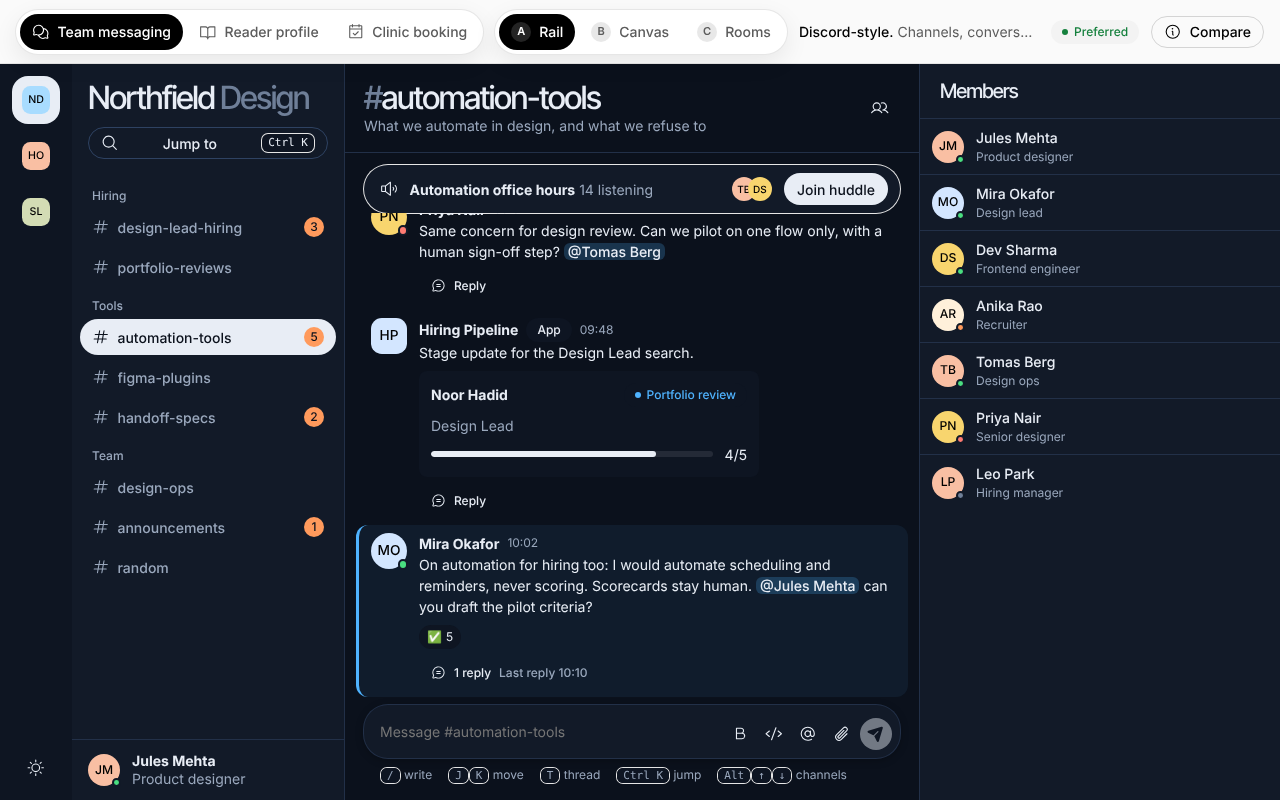
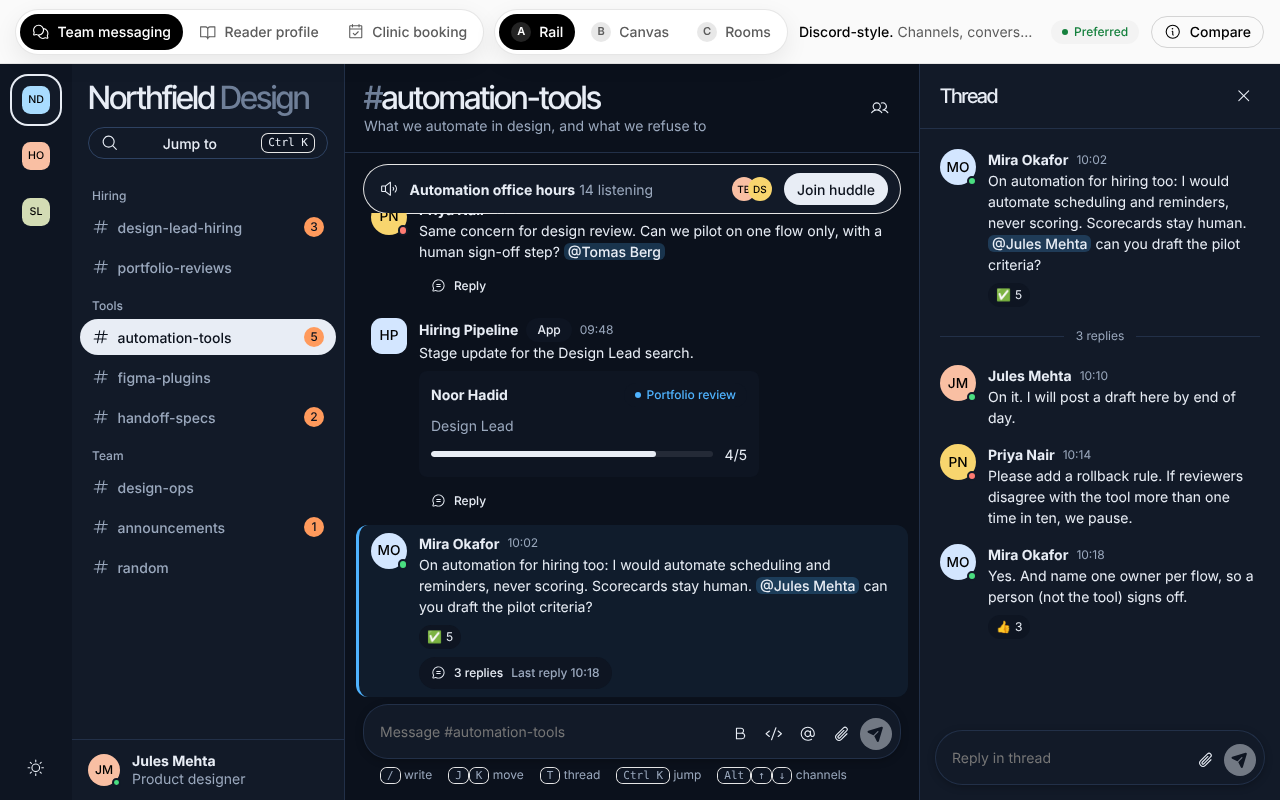
Rail: show a thread by default, frame the selected workspace, label placeholder workspaces
At desktop width the first view now shows channels, the conversation, an open
thread (three replies on the highlighted message) and the composer together; before,
the right pane opened on Members and the thread only appeared after a click.
The selected workspace is a ringed tile instead of a solid ink block (heavy in the
light theme). The two other workspaces now say they are placeholders rather than
silently doing nothing. Adds 7 e2e checks.

Claude-Session: https://claude.ai/code/session_01P1Vf3VVqWDgdfqn6XWC4yx

diff --git a/src/products/messaging/RailConcept.tsx b/src/products/messaging/RailConcept.tsx
@@ -60,11 +60,14 @@ export default function RailConcept() {
   const [joined, setJoined] = useState(false);
   const [cursor, setCursor] = useState(0);
   const composer = useRef<HTMLTextAreaElement>(null);
+  const opened = useRef(false);
   const feed = useRef<HTMLDivElement>(null);
 
   const { channels, channel, channelId, messages, selectChannel, markRead, openRoot, openThread, root, threadFor, send, reply } = ws;
 
   useEffect(() => { setCursor(Math.max(messages.length - 1, 0)); }, [channelId, messages.length]);
+  // Open a real thread on first load at desktop width, so channels, conversation, thread and composer are all visible at once.
+  useEffect(() => { if (!opened.current && wide) { opened.current = true; openThread('a5'); } }, [wide, openThread]);
   useEffect(() => { feed.current?.querySelector(`[data-idx="${cursor}"]`)?.scrollIntoView({ block: 'nearest' }); }, [cursor, channelId]);
 
   const cmds: Cmd[] = useMemo(() => [
@@ -102,6 +105,8 @@ export default function RailConcept() {
   }, [channels, channelId, messages, cursor, selectChannel, openThread, markRead]);
 
   const groups = ['Hiring', 'Tools', 'Team'] as const;
+  const wsNames: Record<string, string> = { northfield: 'Northfield Design', hiring: 'Hiring Ops', studio: 'Studio Labs' };
+  const demo = workspace !== 'northfield';
   const channelNav = groups.map((g) => {
     const items: NavItem[] = channels.filter((c) => c.group === g).map((c) => ({
       id: c.id, label: c.name, icon: <Hash size="1.25em" aria-hidden="true" />, badge: c.unread || undefined,
@@ -142,7 +147,7 @@ export default function RailConcept() {
   const rightBody = openRoot ? threadView : members;
 
   return (
-    <div className="rail" data-ds-theme={theme} data-wide={wide} data-mid={mid}>
+    <div className="rail" data-ds-theme={theme} data-wide={wide && !demo} data-mid={mid} data-demo={demo || undefined}>
       {mid && (
         <div className="rail__ws">
           <Nav
@@ -156,9 +161,17 @@ export default function RailConcept() {
           <Button variant="ghost" iconOnly aria-label={theme === 'dark' ? 'Switch to light theme' : 'Switch to dark theme'} icon={theme === 'dark' ? <Sun size="1.25em" /> : <Moon size="1.25em" />} onClick={() => setTheme((t) => (t === 'dark' ? 'light' : 'dark'))} />
         </div>
       )}
-      {mid && <aside className="rail__channels" aria-label="Channels">{channelPane}</aside>}
+      {mid && !demo && <aside className="rail__channels" aria-label="Channels">{channelPane}</aside>}
+      {demo && (
+        <main className="rail__empty">
+          <Avatar name={wsNames[workspace]} size={64} shape="square" tint={workspace === 'hiring' ? 'peach' : 'sage'} />
+          <h1>{wsNames[workspace]}</h1>
+          <p className="ds-muted">This workspace is a placeholder in the demo and has no channels. All the content lives in Northfield Design.</p>
+          <Button variant="primary" onClick={() => setWorkspace('northfield')}>Back to Northfield Design</Button>
+        </main>
+      )}
 
-      <main className="rail__main">
+      {!demo && <main className="rail__main">
         <header className="rail__top">
           {!mid && <Button variant="ghost" iconOnly aria-label="Open channels" icon={<ListIcon size="1.25em" />} onClick={() => setMenu(true)} />}
           <div className="rail__title">
@@ -196,9 +209,9 @@ export default function RailConcept() {
             <span><kbd>/</kbd> write</span><span><kbd>J</kbd><kbd>K</kbd> move</span><span><kbd>T</kbd> thread</span><span><kbd>Ctrl K</kbd> jump</span><span><kbd>Alt</kbd><kbd>↑</kbd><kbd>↓</kbd> channels</span>
           </p>
         </div>
-      </main>
+      </main>}
 
-      {wide && (
+      {wide && !demo && (
         <aside className="rail__right" aria-label={rightTitle}>
           <div className="rail__right-head">
             <h2>{rightTitle}</h2>
@@ -207,7 +220,7 @@ export default function RailConcept() {
           <div className="rail__right-body">{rightBody}</div>
         </aside>
       )}
-      {!wide && (
+      {!wide && !demo && (
         <Sheet open={!!openRoot || membersOpen} onClose={() => { openThread(null); setMembersOpen(false); }} title={rightTitle} side="right">
           {rightBody}
         </Sheet>

diff --git a/src/products/messaging/rail.css b/src/products/messaging/rail.css
@@ -7,6 +7,13 @@
 .rail__ws { background: var(--ds-surface-sunken); display: flex; flex-direction: column; align-items: center; justify-content: space-between; padding: var(--ds-space-3) var(--ds-space-2); box-shadow: 1px 0 0 var(--ds-border); }
 .rail__ws .ds-nav__item { min-height: 48px; width: 48px; padding: 0; justify-content: center; border-radius: var(--ds-radius-lg); }
 .rail__ws .ds-nav ul { gap: var(--ds-space-2); }
+/* Selected workspace: a framed tile, not a solid ink block. */
+.rail__ws .ds-nav__item[aria-current='page'] { background: var(--ds-surface); color: var(--ds-text); box-shadow: 0 0 0 2px var(--ds-text); }
+.rail__ws .ds-nav__item[aria-current='page']:hover { background: var(--ds-surface); }
+.rail[data-demo] { grid-template-columns: 72px minmax(0, 1fr) !important; }
+@media (max-width: 899px) { .rail[data-demo] { grid-template-columns: minmax(0, 1fr) !important; } }
+.rail__empty { display: grid; place-content: center; justify-items: center; gap: var(--ds-space-4); text-align: center; padding: var(--ds-space-6); }
+.rail__empty p { max-width: 44ch; }
 
 .rail__channels { background: var(--ds-surface); box-shadow: 1px 0 0 var(--ds-border); min-height: 0; }
 .rail__channels-inner { display: flex; flex-direction: column; height: 100%; min-height: 0; }

diff --git a/src/products/messaging/data.ts b/src/products/messaging/data.ts
@@ -94,7 +94,11 @@ export const initialThreads: Thread[] = [
   {
     rootId: 'a5',
     channelId: 'automation',
-    replies: [{ id: 'a5r1', author: 'jules', time: '10:10', body: 'On it. I will post a draft here by end of day.' }],
+    replies: [
+      { id: 'a5r1', author: 'jules', time: '10:10', body: 'On it. I will post a draft here by end of day.' },
+      { id: 'a5r2', author: 'priya', time: '10:14', body: 'Please add a rollback rule. If reviewers disagree with the tool more than one time in ten, we pause.' },
+      { id: 'a5r3', author: 'mira', time: '10:18', body: 'Yes. And name one owner per flow, so a person (not the tool) signs off.', reactions: [{ emoji: '👍', count: 3 }] },
+    ],
   },
   {
     rootId: 'h1',

diff --git a/tests/e2e/messaging.py b/tests/e2e/messaging.py
@@ -19,6 +19,16 @@ with sync_playwright() as p:
         pg.goto(f'{BASE}/#/messaging/{cid}'); pg.wait_for_timeout(400); return pg
     # RAIL
     pg=page('rail')
+    # The required pieces are all visible on first load at desktop width: channels, conversation, a thread, a composer.
+    ok('rail default: channels', pg.get_by_role('complementary',name='Channels').is_visible())
+    ok('rail default: conversation', pg.get_by_role('log',name='Messages in automation-tools').is_visible())
+    ok('rail default: thread open with replies', pg.get_by_role('heading',name='Thread').is_visible() and pg.get_by_text('rollback rule').count()==1)
+    ok('rail default: composer', pg.get_by_label('Message #automation-tools').is_visible())
+    pg.locator('.rail__ws .ds-nav__item').nth(1).click()
+    ok('rail demo workspace states it is a placeholder', pg.get_by_text('placeholder in the demo').count()==1)
+    ok('rail demo workspace marks selection', pg.locator('.rail__ws .ds-nav__item[aria-current=page]').count()==1)
+    pg.get_by_role('button',name='Back to Northfield Design').click()
+    ok('rail back to real workspace', pg.get_by_role('complementary',name='Channels').is_visible())
     pg.get_by_label('Message #automation-tools').fill('Pilot criteria draft is up')
     pg.keyboard.press('Enter')
     ok('rail send', pg.get_by_text('Pilot criteria draft is up').count()==1)

diff --git a/README.md b/README.md
@@ -71,11 +71,11 @@ mkdir -p .claude/skills && cp -r skills/roshyoui-design-system .claude/skills/
 
 | Suite | Checks | axe scans | Covers |
 |---|---|---|---|
-| messaging | 24 | 3 | send, @mention picker, command menu, shortcuts, thread open and reply, filters, inbox reply, Done and Undo, huddle, mobile menus |
+| messaging | 31 | 3 | default view shows channels, conversation, thread and composer; send, @mention picker, command menu, shortcuts, thread reply, workspace placeholder, filters, inbox reply, Done and Undo, huddle, mobile menus |
 | reader | 24 | 5 | page logging and validation, finishing a book, empty state, chart and month filter, shelf filters and sort, side sheet edits |
 | booking | 18 | 4 | step gating, focus management, validation, back keeps data, confirmation, mobile summary |
 
-All 66 checks pass and axe reports zero WCAG 2 A/AA violations in the scanned states. Layouts were also checked at 390, 768 and 1280px for horizontal overflow. **Not tested:** screen readers, real touch devices, Safari, Firefox; and axe was run on default and sheet-open states, not every state.
+All 73 checks pass and axe reports zero WCAG 2 A/AA violations in the scanned states. Layouts were also checked at 390, 768 and 1280px for horizontal overflow. **Not tested:** screen readers, real touch devices, Safari, Firefox; and axe was run on default and sheet-open states, not every state.
 
 ## Skill validation
 
@@ -92,7 +92,7 @@ Summary (full report in `docs/validation.md`): the skill carried the system to a
 
 ## Known limitations
 
-- Some UI is mocked: Rail's workspace switcher, Canvas's Files and People tabs, huddle audio. The booking flow stores nothing and says so on screen.
+- Some UI is mocked: Rail's other two workspaces are labelled placeholders, Canvas's Files and People tabs are light, and huddles have no audio. On Rail at widths under 1200px the thread opens in a side sheet instead of being visible by default. The booking flow stores nothing and says so on screen.
 - Message formatting supports bold, code and mentions only.
 - The skill test was not independent (above).
 - Dark theme contrast was scanned in Rail's default view only.
